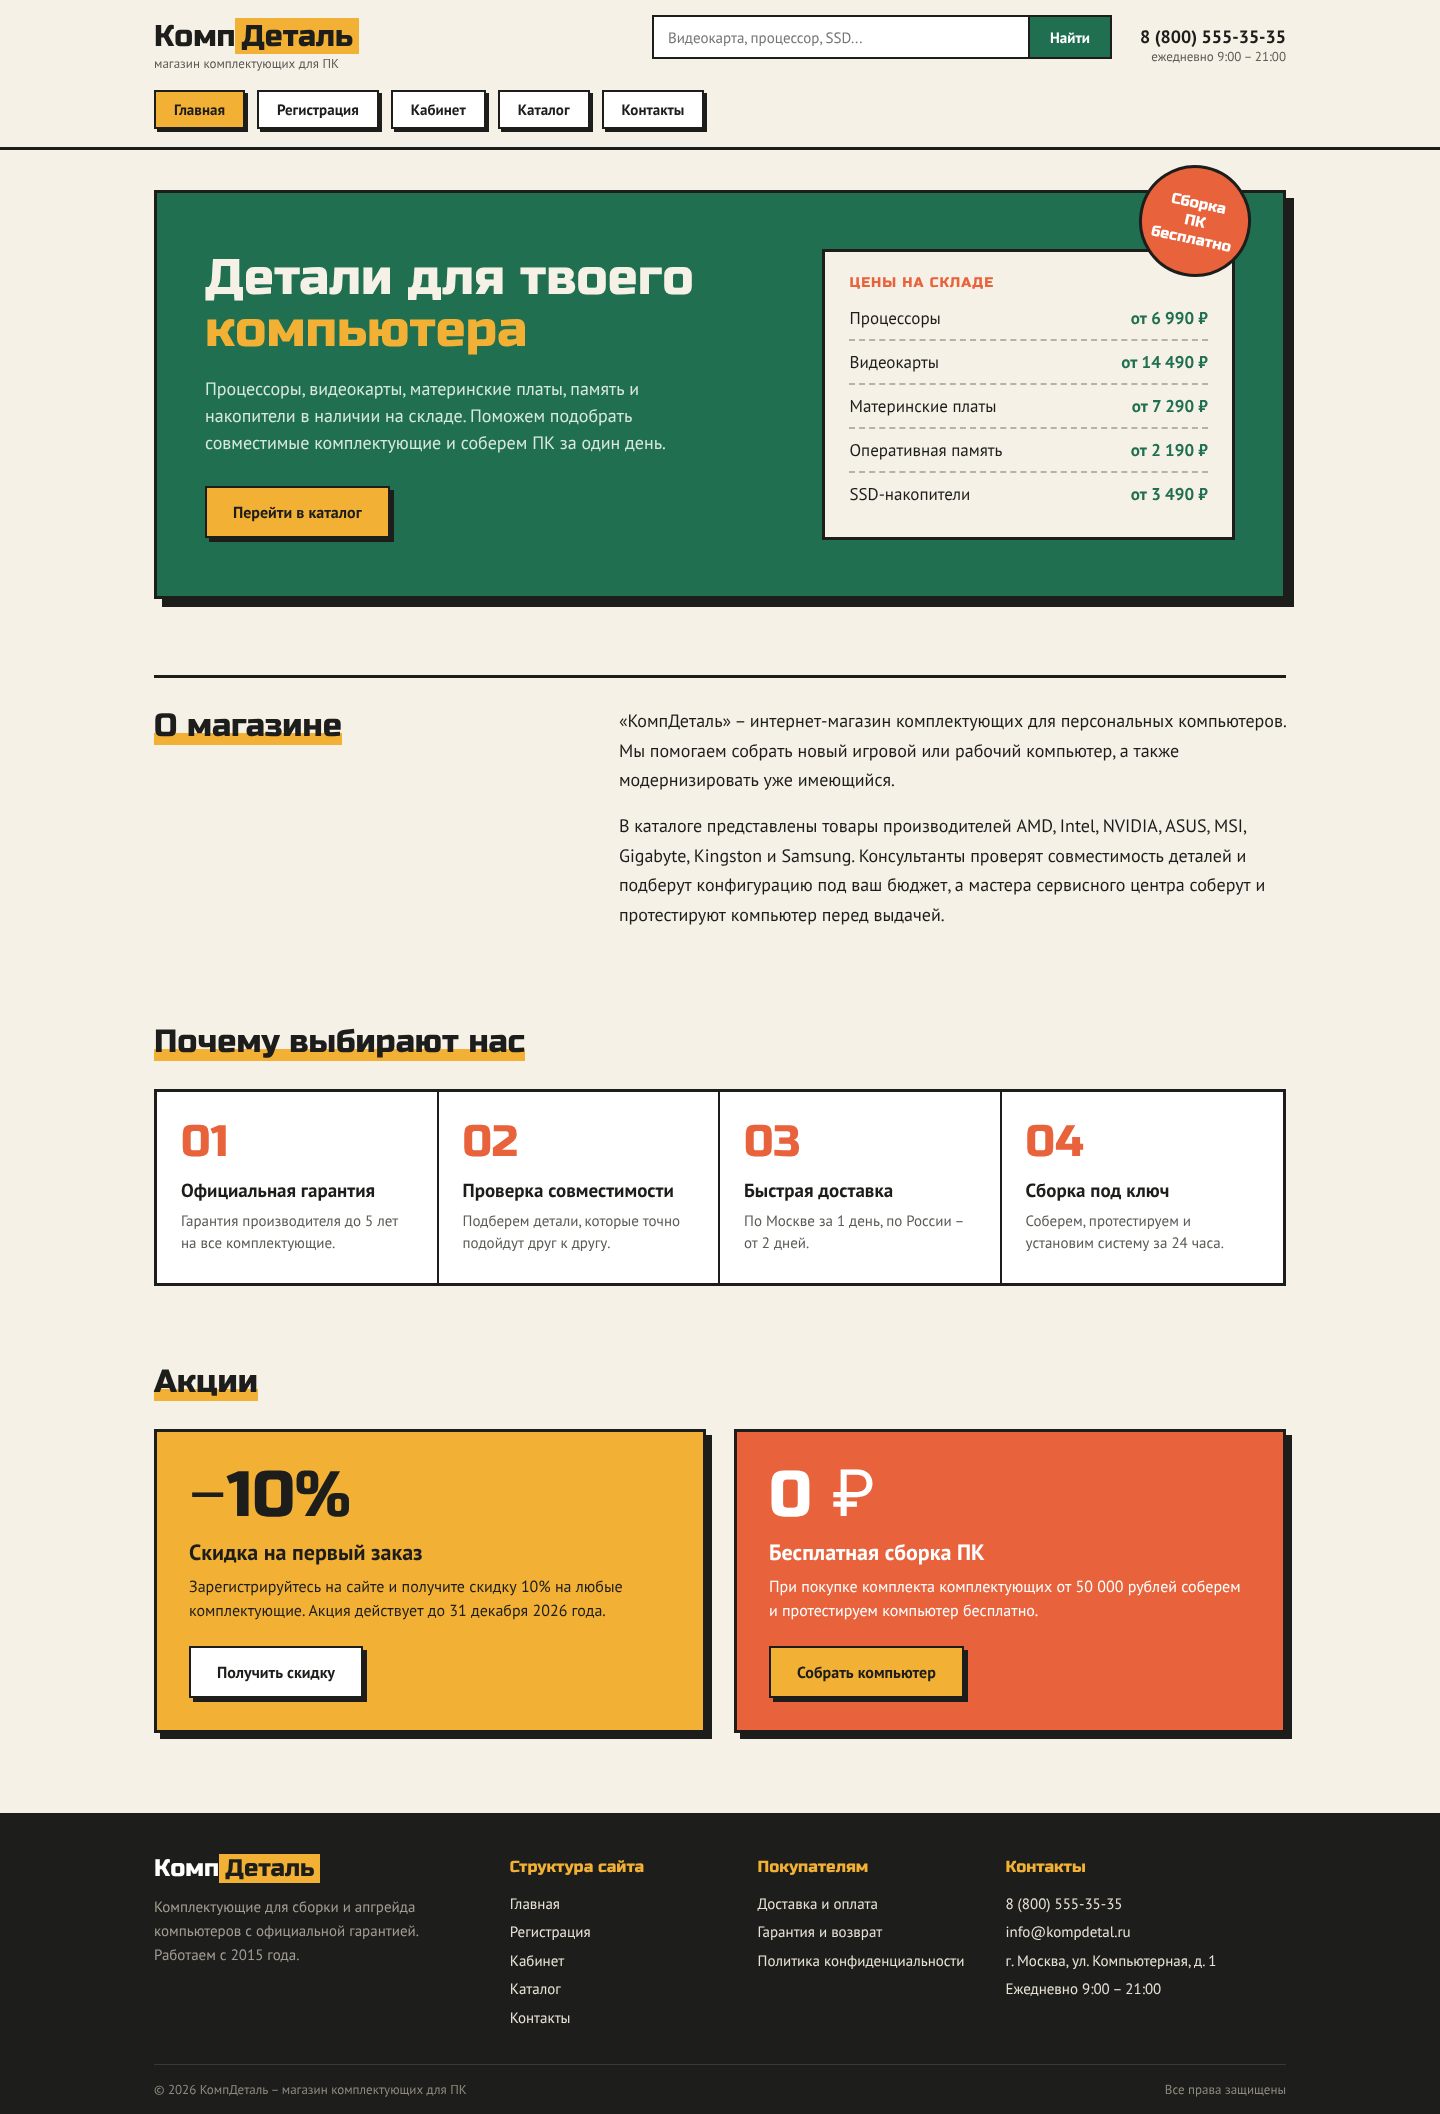
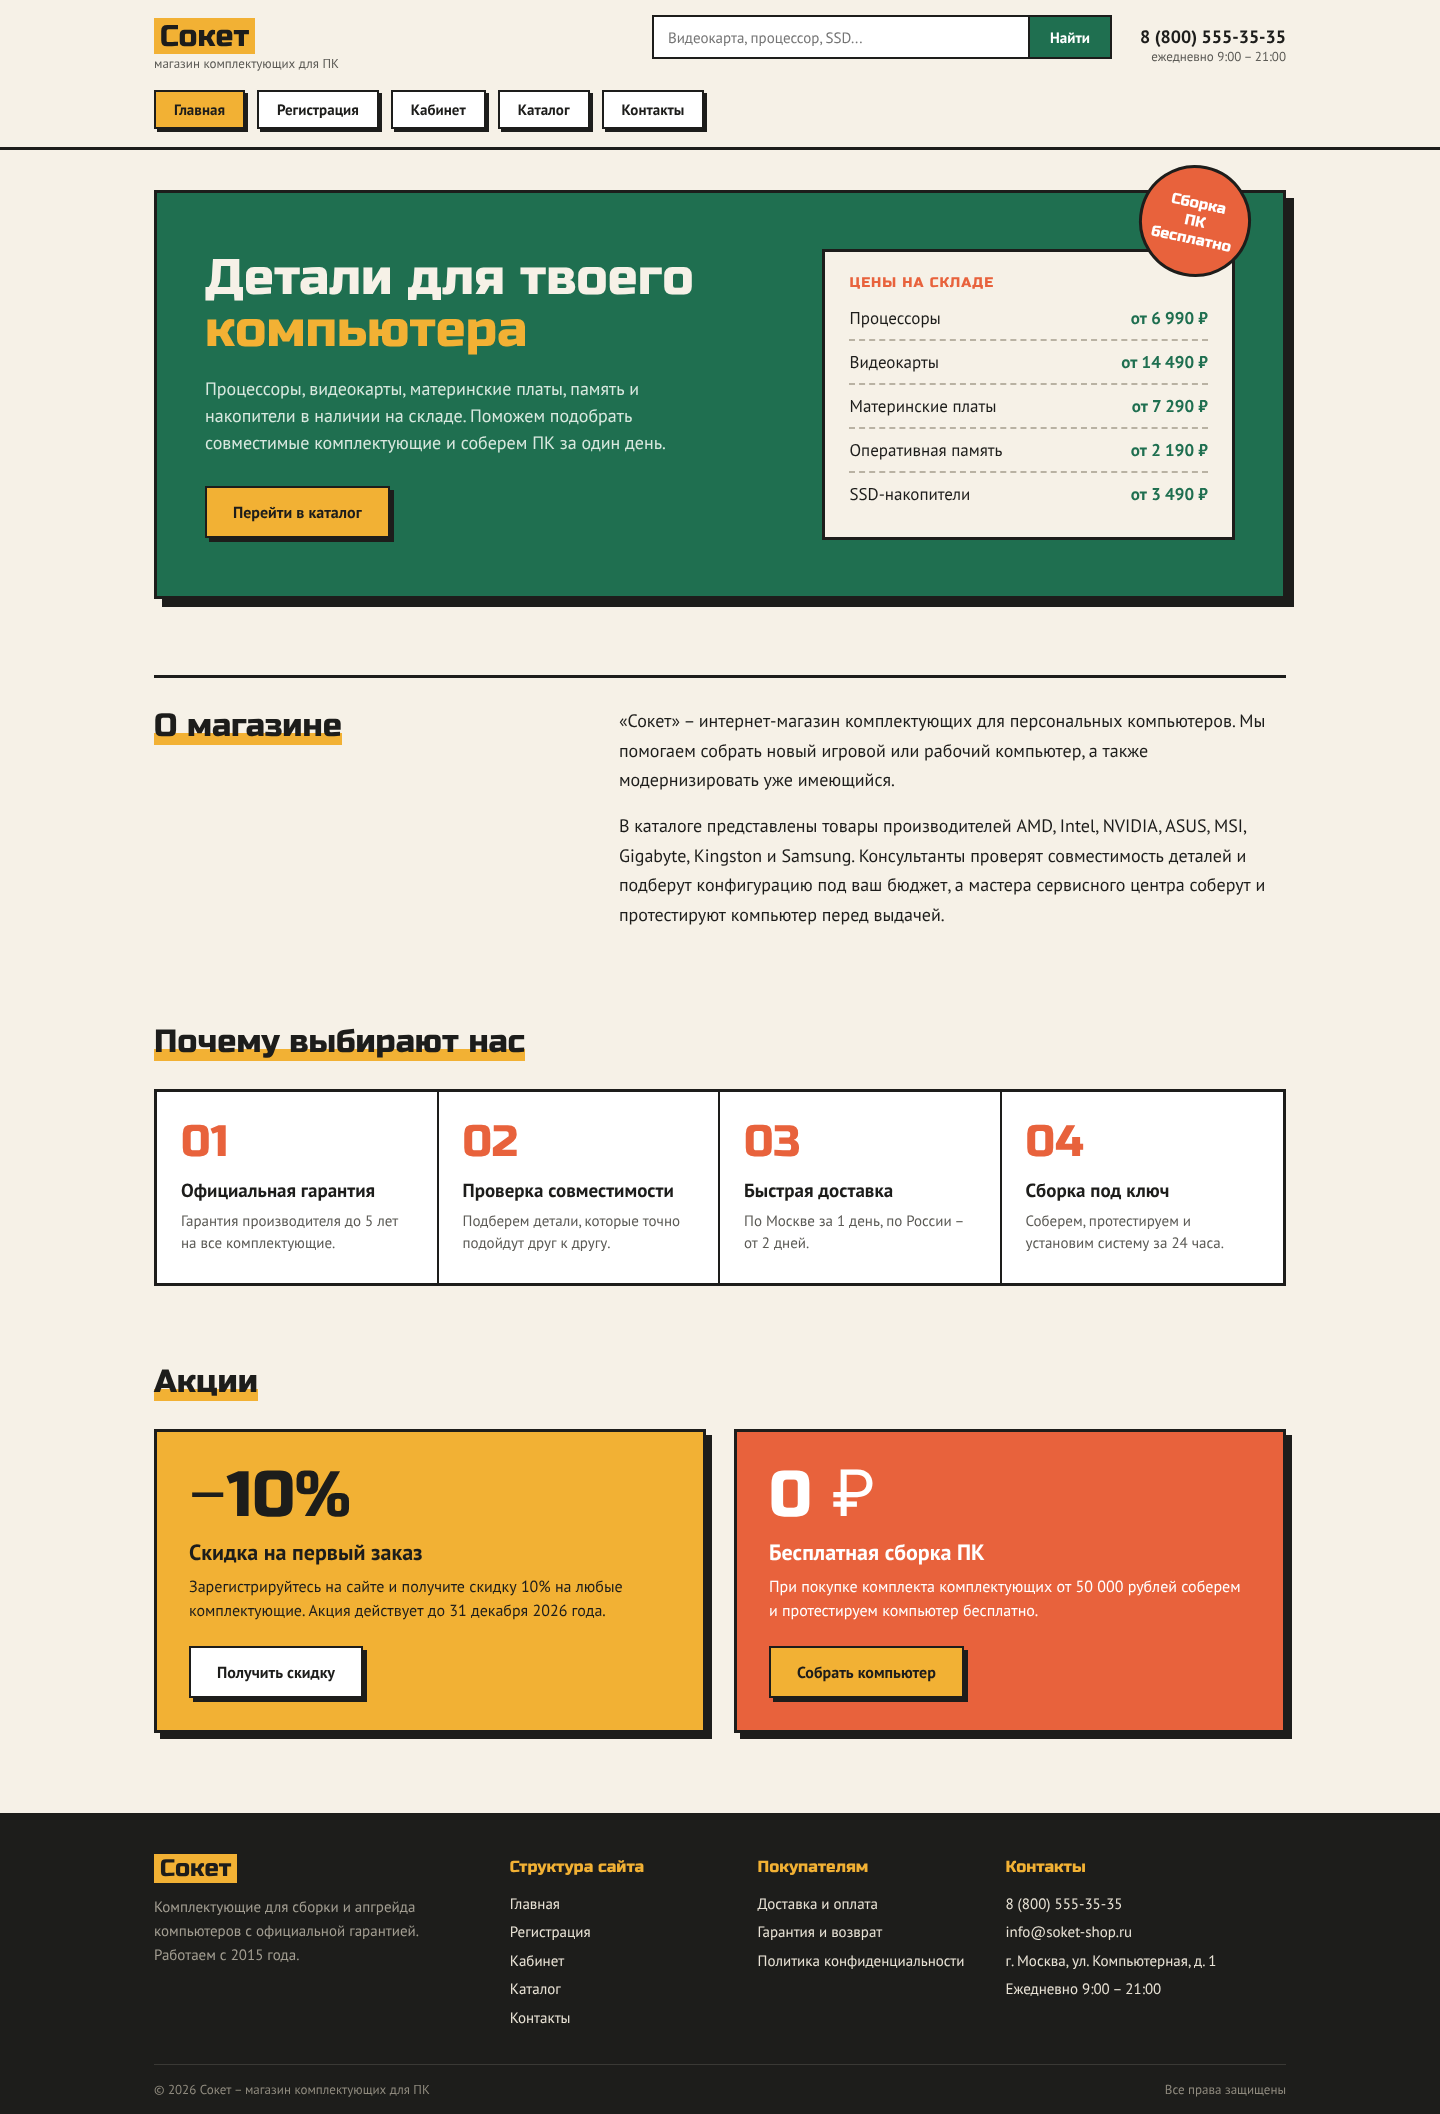
ЛР9: новое название магазина – «Сокет»
Claude-Session: https://claude.ai/code/session_01FPpNhkgtReaRARf6iDnnhE

diff --git a/lab9/index.php b/lab9/index.php
@@ -25,7 +25,7 @@
 		<div class="opisanie">
 			<div><h1>О магазине</h1></div>
 			<div>
-				<p>«КомпДеталь» – интернет-магазин комплектующих для персональных компьютеров. Мы помогаем собрать новый игровой или рабочий компьютер, а также модернизировать уже имеющийся.</p>
+				<p>«Сокет» – интернет-магазин комплектующих для персональных компьютеров. Мы помогаем собрать новый игровой или рабочий компьютер, а также модернизировать уже имеющийся.</p>
 				<p>В каталоге представлены товары производителей AMD, Intel, NVIDIA, ASUS, MSI, Gigabyte, Kingston и Samsung. Консультанты проверят совместимость деталей и подберут конфигурацию под ваш бюджет, а мастера сервисного центра соберут и протестируют компьютер перед выдачей.</p>
 			</div>
 		</div>

diff --git a/lab9/head.php b/lab9/head.php
@@ -1,4 +1,4 @@
-<html><head><title>КомпДеталь – магазин комплектующих для ПК</title>
+<html><head><title>Сокет – магазин комплектующих для ПК</title>
 <meta http-equiv="Content-Type" content="text/html; charset=utf-8" />
 <meta name="viewport" content="width=device-width, initial-scale=1" />
 <link href="https://fonts.googleapis.com/css2?family=PT+Sans:wght@400;700&family=Russo+One&display=swap" rel="stylesheet" />
@@ -118,7 +118,7 @@ h1 { display: inline; margin: 0; font-family: "Russo One", Arial, sans-serif; fo
 	<div class="wrap">
 		<div id="shapka_verh">
 			<!-- Логотип -->
-			<a href="index.php" class="logo">Комп<span>Деталь</span><small>магазин комплектующих для ПК</small></a>
+			<a href="index.php" class="logo"><span>Сокет</span><small>магазин комплектующих для ПК</small></a>
 			<!-- Строка поиска -->
 			<form class="poisk" action="#" method="get">
 				<input type="text" name="poisk" placeholder="Видеокарта, процессор, SSD..." /><input type="submit" value="Найти" />

diff --git a/lab9/foot.php b/lab9/foot.php
@@ -3,7 +3,7 @@
 	<div class="wrap">
 		<div class="podval_setka">
 			<div>
-				<div class="logo">Комп<span>Деталь</span></div>
+				<div class="logo"><span>Сокет</span></div>
 				<p class="podval_text">Комплектующие для сборки и апгрейда компьютеров с официальной гарантией. Работаем с 2015 года.</p>
 			</div>
 			<div>
@@ -23,13 +23,13 @@
 			<div>
 				<h4>Контакты</h4>
 				<p>8 (800) 555-35-35</p>
-				<p>info@kompdetal.ru</p>
+				<p>info@soket-shop.ru</p>
 				<p>г. Москва, ул. Компьютерная, д. 1</p>
 				<p>Ежедневно 9:00 – 21:00</p>
 			</div>
 		</div>
 		<div class="kopirait">
-			<span>© 2026 КомпДеталь – магазин комплектующих для ПК</span>
+			<span>© 2026 Сокет – магазин комплектующих для ПК</span>
 			<span>Все права защищены</span>
 		</div>
 	</div>
